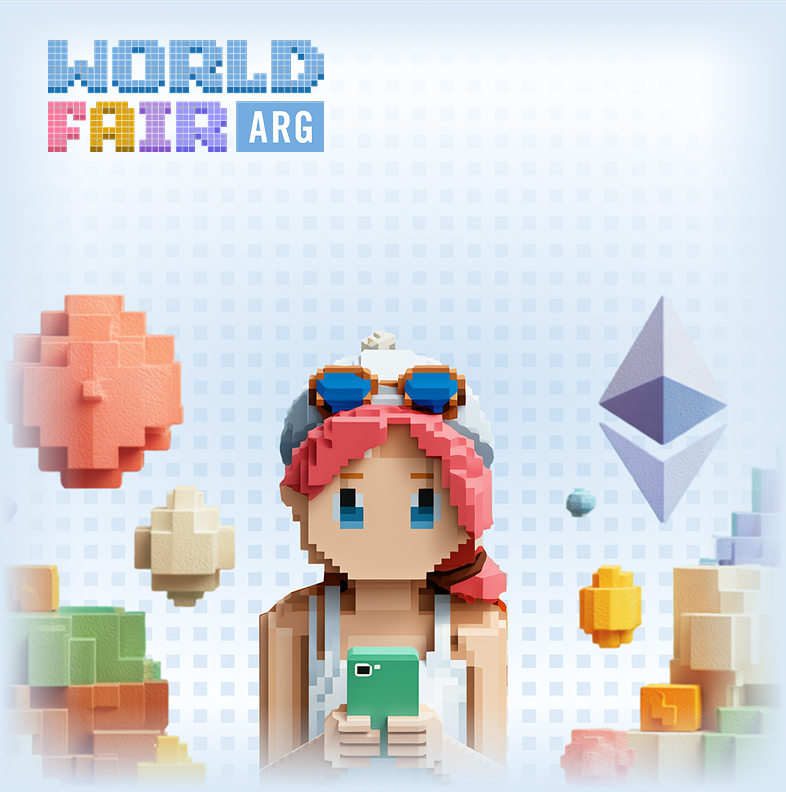
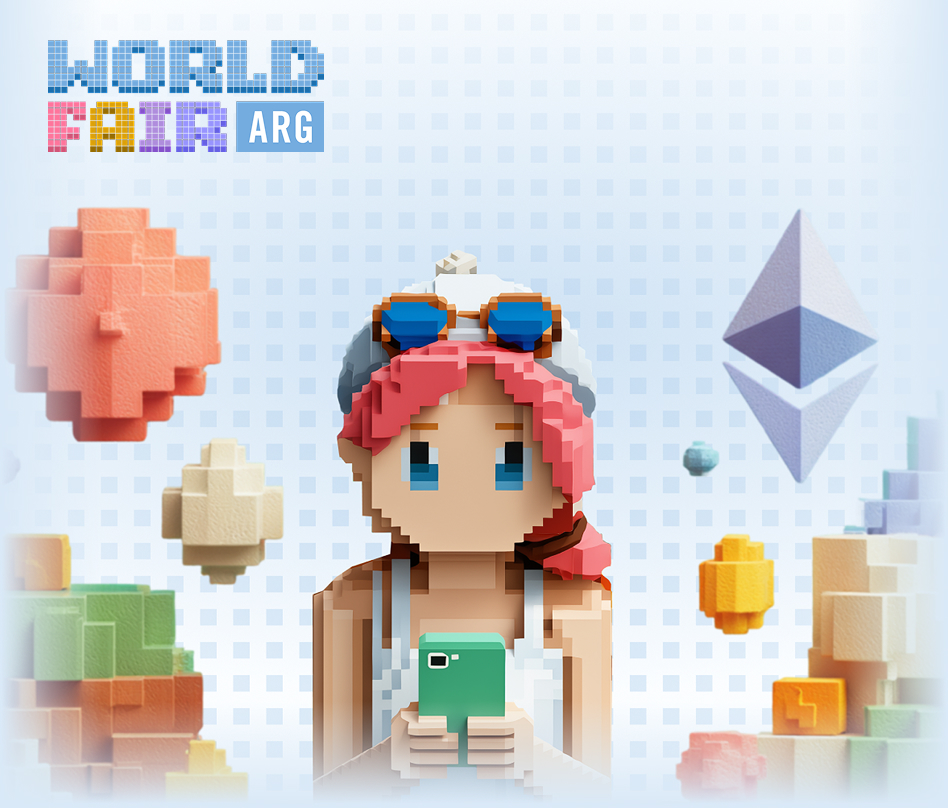
update app-install

diff --git a/devconnect-app/src/components/PWAInstall.tsx b/devconnect-app/src/components/PWAInstall.tsx
@@ -73,7 +73,7 @@ const InstallPWA: React.FC<InstallPWAProps> = ({ onClose }) => {
       <div className="relative w-full max-w-[474px]">
         {/* Hero Section */}
         <div
-          className="relative w-full aspect-[786/792] bg-cover bg-center bg-no-repeat mb-0"
+          className="relative w-full aspect-[948/808] bg-cover bg-center bg-no-repeat mb-0"
           style={{ backgroundImage: "url('/images/app-install.jpg')" }}
         >
           {/* Header */}
